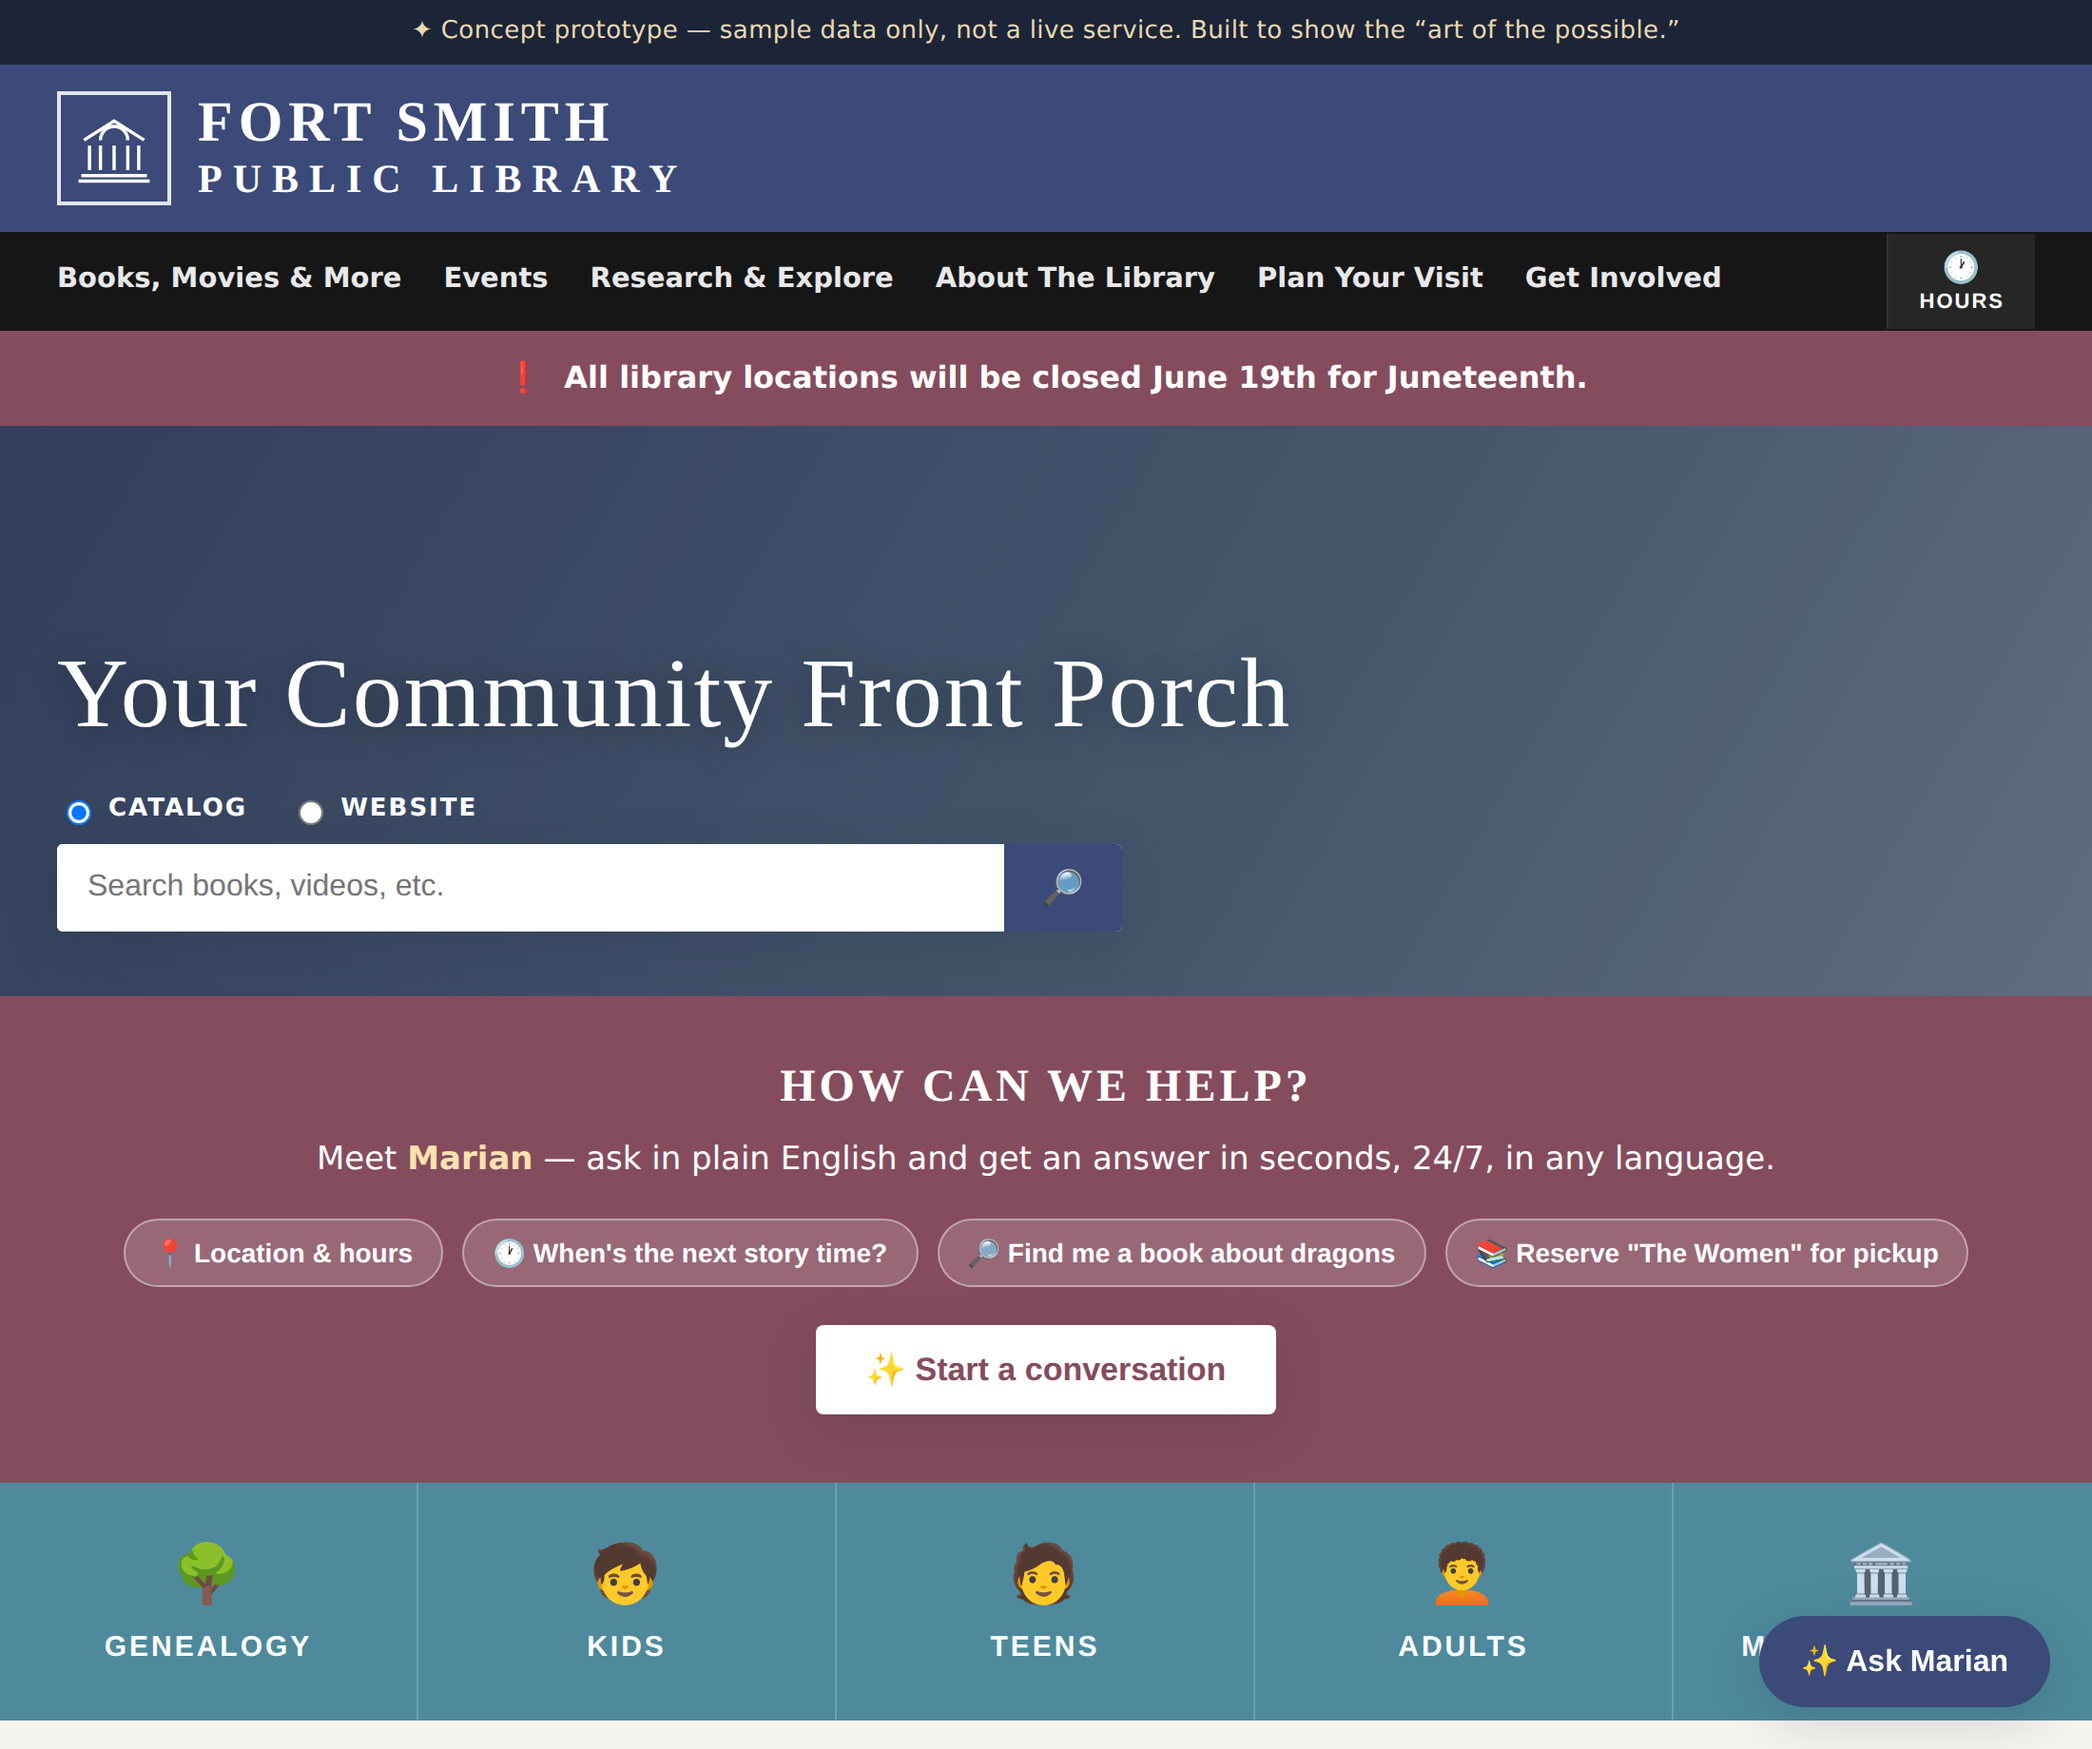
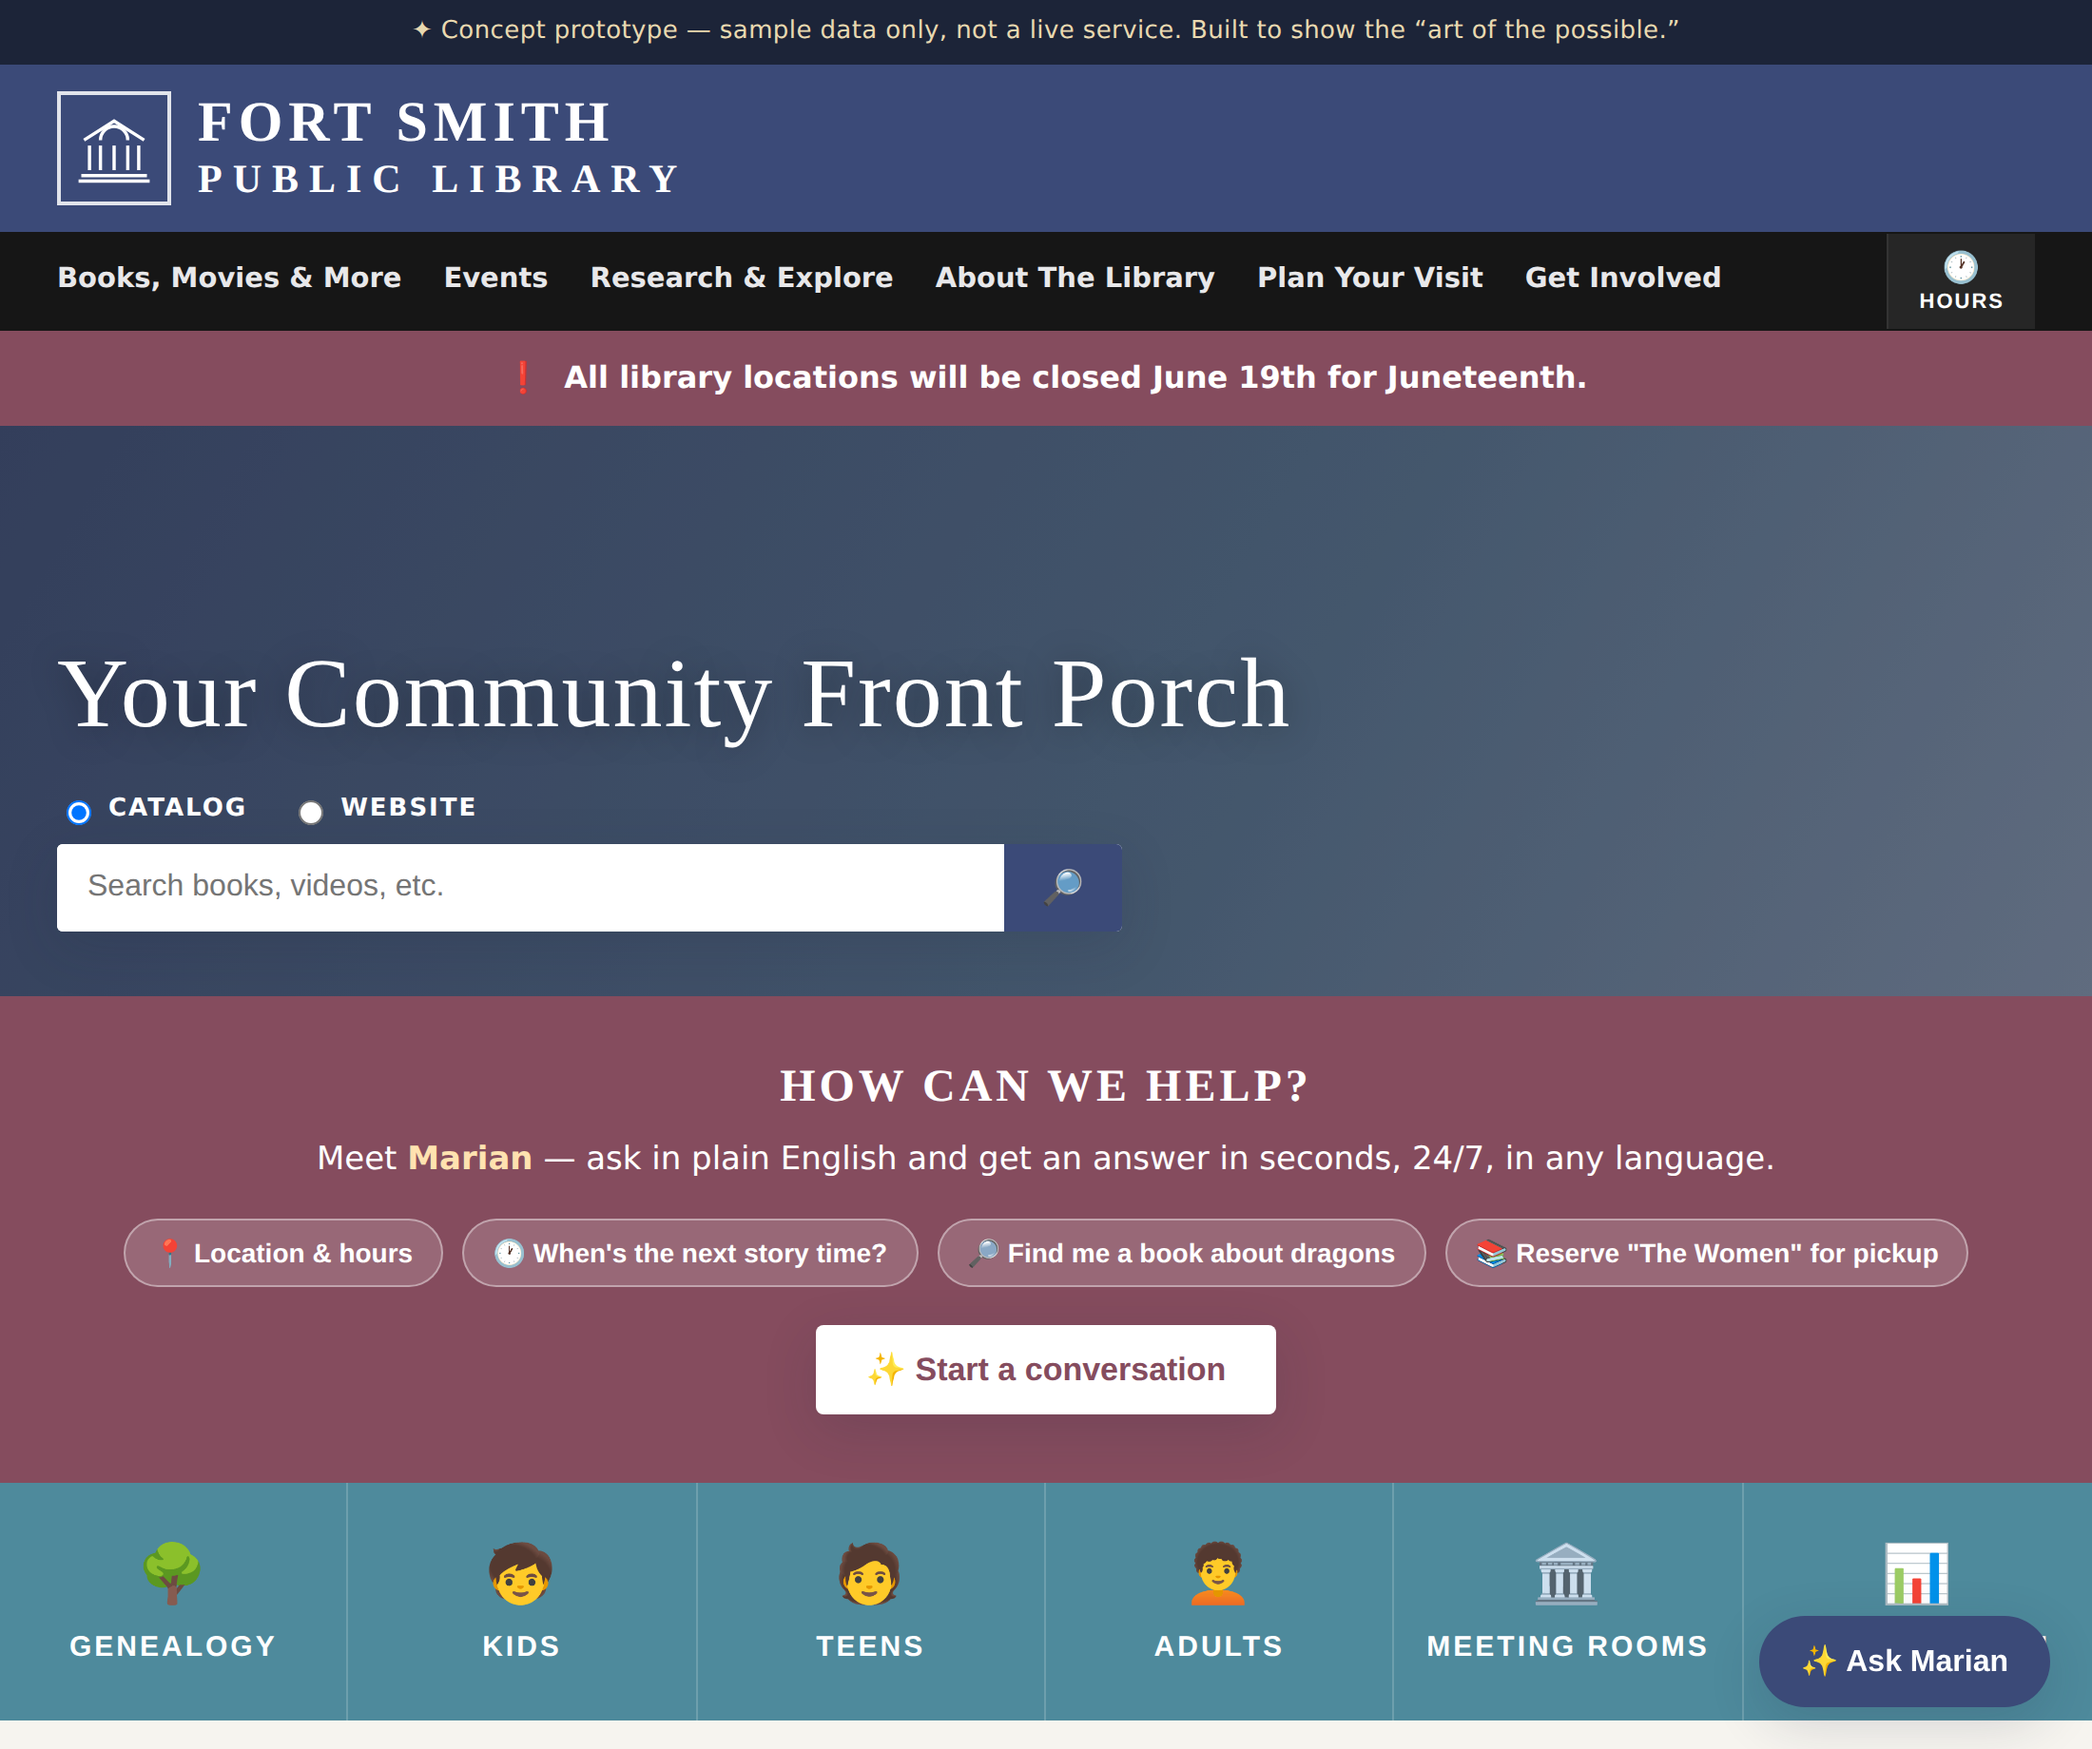
Add 'Project Pitch' tile linking from demo to the proposal
Sixth quick-link tile (mauve, distinct from the teal tiles) opens proposal.html
in a new tab, so you can jump straight from the live demo into the pitch during
the meeting. Widened the tile grid to 6; rebuilt the standalone bundle.

diff --git a/library-assistant-demo/library-magic-assistant-demo.html b/library-assistant-demo/library-magic-assistant-demo.html
@@ -124,7 +124,9 @@ h1,h2,h3,h4{ font-family:"Cinzel", Georgia, serif; letter-spacing:.5px; }
 .bigcta:hover{ transform:translateY(-1px); }
 
 /* teal tiles */
-.tiles{ display:grid; grid-template-columns:repeat(5,1fr); }
+.tiles{ display:grid; grid-template-columns:repeat(6,1fr); }
+.tile-pitch{ background:var(--mauve); }
+.tile-pitch:hover{ background:var(--mauve-d); }
 .tile{
   background:var(--teal); color:#fff; border:none; border-right:1px solid rgba(255,255,255,.18);
   padding:30px 10px; font-weight:700; font-size:15px; letter-spacing:1.5px; cursor:pointer;
@@ -339,6 +341,7 @@ h1,h2,h3,h4{ font-family:"Cinzel", Georgia, serif; letter-spacing:.5px; }
     <button class="tile" onclick="ask('What teen programs are happening?')"><span class="tile-ic">🧑</span>TEENS</button>
     <button class="tile" onclick="ask('Recommend a book for an adult reader')"><span class="tile-ic">🧑🦱</span>ADULTS</button>
     <button class="tile" onclick="ask('What are the hours and locations?')"><span class="tile-ic">🏛</span>MEETING ROOMS</button>
+    <button class="tile tile-pitch" onclick="window.open('proposal.html','_blank')"><span class="tile-ic">📊</span>PROJECT PITCH</button>
   </section>
 
   <!-- Feature explainer (for the CEO walkthrough) -->

diff --git a/library-assistant-demo/index.html b/library-assistant-demo/index.html
@@ -100,6 +100,7 @@
     <button class="tile" onclick="ask('What teen programs are happening?')"><span class="tile-ic">🧑</span>TEENS</button>
     <button class="tile" onclick="ask('Recommend a book for an adult reader')"><span class="tile-ic">🧑🦱</span>ADULTS</button>
     <button class="tile" onclick="ask('What are the hours and locations?')"><span class="tile-ic">🏛</span>MEETING ROOMS</button>
+    <button class="tile tile-pitch" onclick="window.open('proposal.html','_blank')"><span class="tile-ic">📊</span>PROJECT PITCH</button>
   </section>
 
   <!-- Feature explainer (for the CEO walkthrough) -->

diff --git a/library-assistant-demo/styles.css b/library-assistant-demo/styles.css
@@ -114,7 +114,9 @@ h1,h2,h3,h4{ font-family:"Cinzel", Georgia, serif; letter-spacing:.5px; }
 .bigcta:hover{ transform:translateY(-1px); }
 
 /* teal tiles */
-.tiles{ display:grid; grid-template-columns:repeat(5,1fr); }
+.tiles{ display:grid; grid-template-columns:repeat(6,1fr); }
+.tile-pitch{ background:var(--mauve); }
+.tile-pitch:hover{ background:var(--mauve-d); }
 .tile{
   background:var(--teal); color:#fff; border:none; border-right:1px solid rgba(255,255,255,.18);
   padding:30px 10px; font-weight:700; font-size:15px; letter-spacing:1.5px; cursor:pointer;
